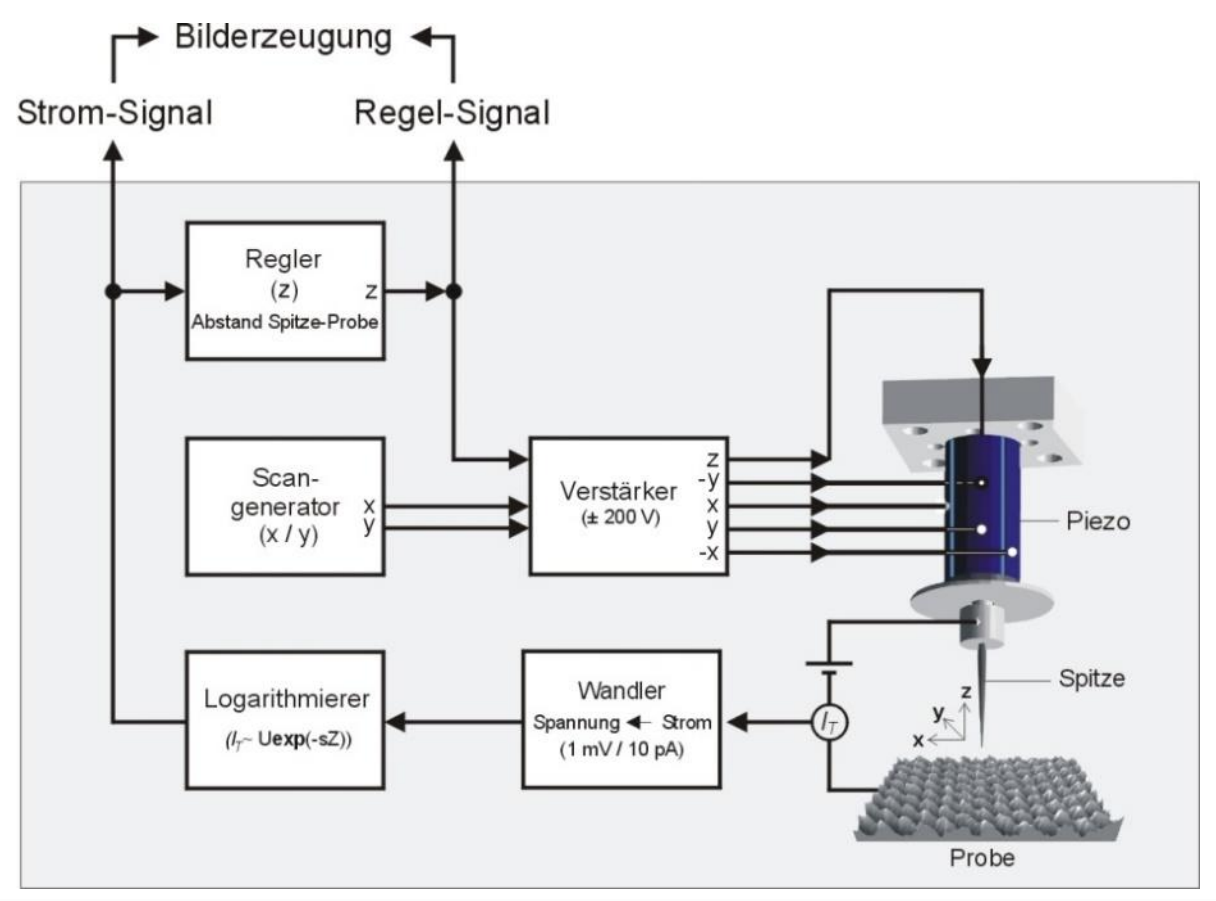
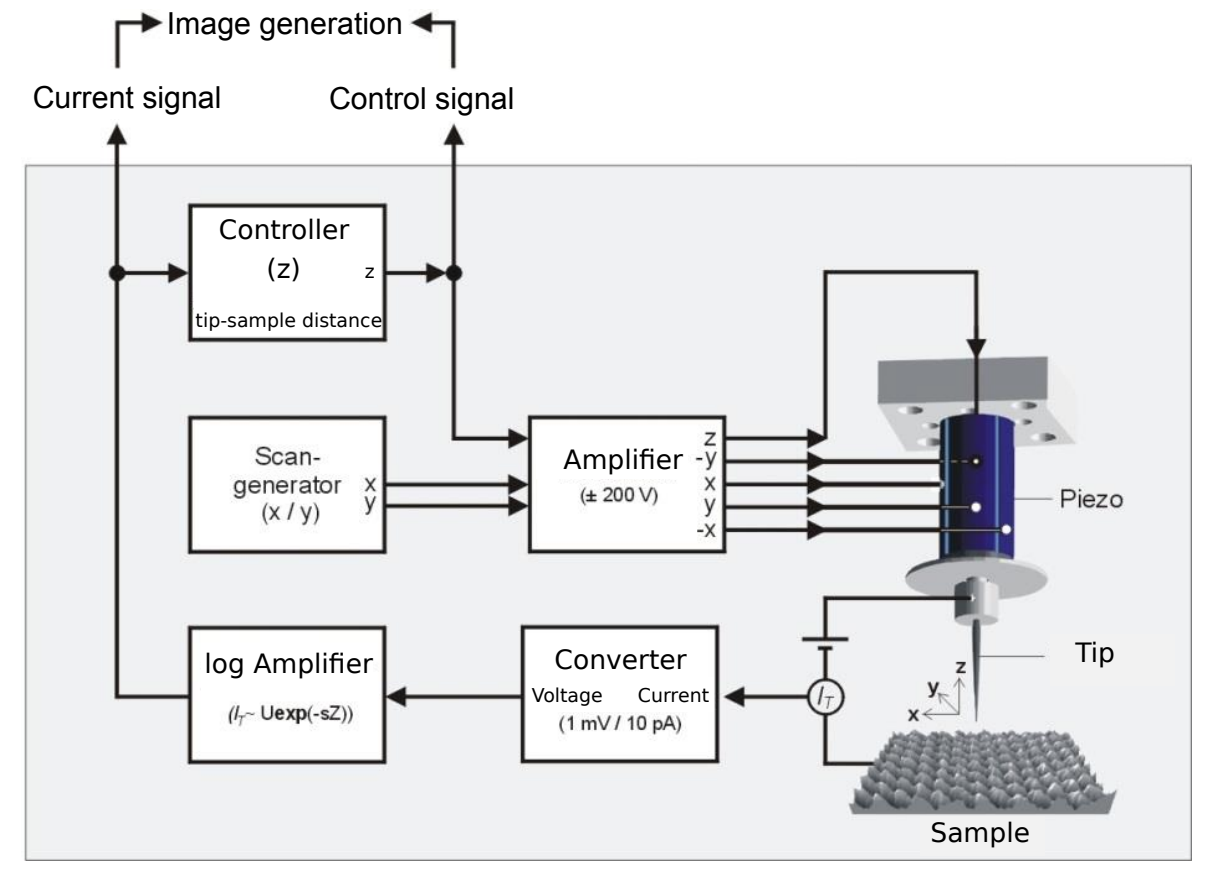
finished section 3 (experimental setup)

Changed region(s): [[0.0, 0.0, 1.0, 1.0]]

diff --git a/Evaluation/Evaluation_STM.tex b/Evaluation/Evaluation_STM.tex
@@ -485,7 +485,7 @@ For example, applying a positive voltage to one side of the tube and a negative 
 By combining voltages on different electrode pairs, controlled motion in both lateral directions is achieved, allowing the tip to raster-scan the sample surface.
 
 An important consequence of this bending mechanism is that lateral motion does not occur along a perfectly straight line.
-Instead, the tip follows a curved trajectory corresponding to an arc of a circle, as the tube bends rather than translates rigidly.
+Instead, the tip follows a curved trajectory corresponding to an arc of a circle, as the tube bends rather than translating rigidly.
 For small scan ranges this curvature is negligible, but for larger lateral displacements it becomes significant.
 This geometric effect ultimately limits the maximum usable scan area of the STM and contributes to distortions at large scan sizes.
 
@@ -500,19 +500,32 @@ Both effects lead to small distortions of the scan geometry, especially at large
 \section{Experimental Setup}
 
 The STM used in this experiment is a custom-built instrument designed for operation under ambient conditions.
-Its core component is a piezoelectric tube scanner that provides precise positioning of the tip in all three spatial directions.
-A micrometer screw enables coarse manual approach, monitored with a USB microscope, and once the tip is close enough, a computer-controlled fine approach brings it into tunneling range.
-After detecting a tunneling current, the feedback loop maintains the chosen setpoint during scanning (see Fig.~\ref{fig:stm_blockdiagram}).
+Its central component is a piezoelectric tube scanner, which enables precise positioning of the metallic tip relative to the sample in all three spatial directions.
+A micrometer screw provides coarse manual approach, monitored using a USB microscope.
+After this manual approach, a small stepper motor is attached to the micrometer screw, allowing a computer-controlled fine approach that brings the tip into the tunneling regime.
 
-The microscope is mounted on a vibration-damping table to minimize mechanical noise, and all control signals, data acquisition, and imaging are handled through the Nanotec electronics together with the WSxM software package.
+A schematic overview of the electronic setup and feedback loop is shown in Fig.~\ref{fig:stm_blockdiagram}.
+A DC bias voltage is applied between the tip and the sample, defining the tunneling direction and the accessible energy range.
+The resulting tunneling current, typically in the picoampere to nanoampere range, is far too small to be processed directly.
+It is therefore fed into a converter stage, where the current is transformed into a proportional voltage signal in the millivolt range.
+Because the tunneling current depends exponentially on the tip--sample distance, this signal is further processed by a logarithmic amplifier, which linearizes the current–distance relationship.
+
+The amplified signal is digitized and processed by the controller, which continuously compares the measured current to a user-defined setpoint.
+Any deviation generates a control signal that adjusts the voltage applied to the $z$ electrode of the piezoelectric tube, thereby regulating the tip–sample distance.
+Since piezoelectric actuators require large driving voltages, the controller output is amplified to voltages of up to $\pm200~\mathrm{V}$ before being applied to the scanner.
+
+Lateral scanning is achieved independently of the feedback loop.
+A scan generator produces time-dependent voltages for the $x$ and $y$ electrodes of the piezo tube, which are likewise amplified to $\pm200~\mathrm{V}$.
 
 \vspace{1em}
 \begin{figure}[H]
 \centering
-\includegraphics[width=0.75\textwidth]{../resources/figures/STM_BlockDiagram.png}
+\includegraphics[width=0.9\textwidth]{../resources/figures/STM_BlockDiagram.png}
 \caption{Block diagram of the STM setup, showing the feedback loop, piezo scanner, and current amplification~\cite{STMAnleitung}.}
 \label{fig:stm_blockdiagram}
 \end{figure}
+
+Data acquisition, control, and image processing are handled using the Nanotec electronics in combination with the WSxM software package.
 
 
 
